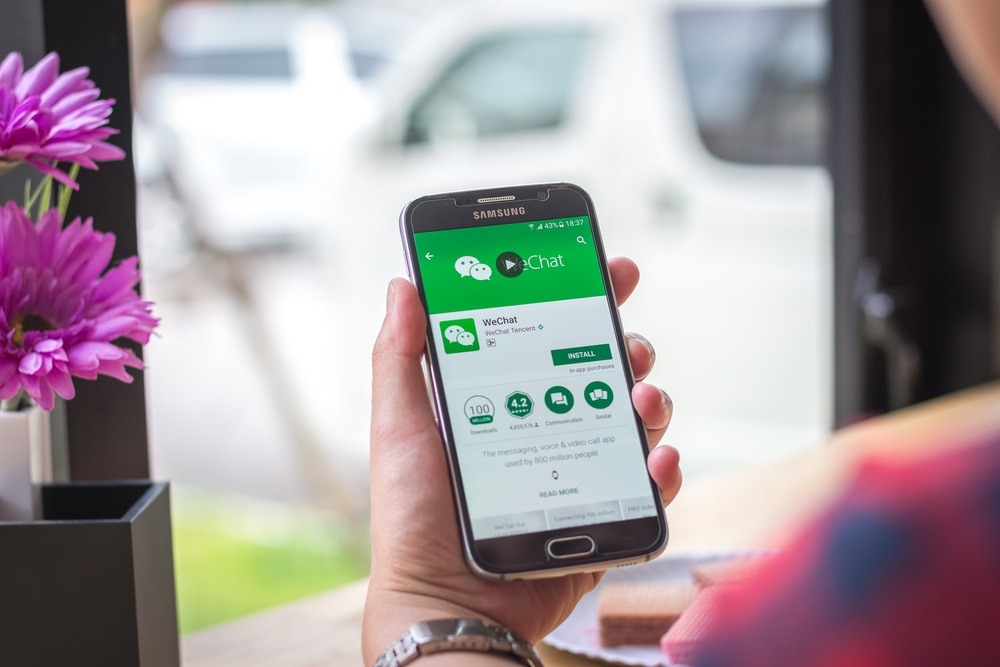
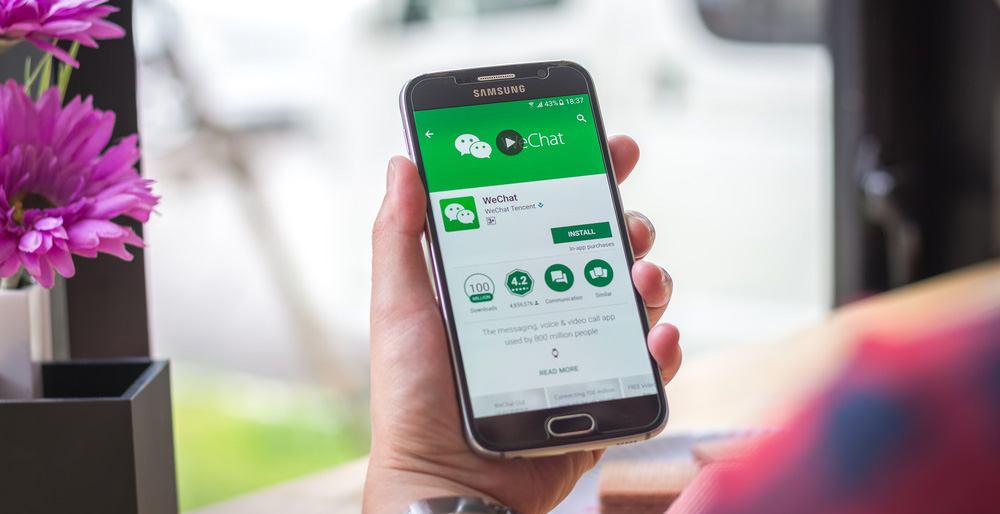
統一 slider 圖片大小

diff --git a/css/invest/invest-style.css b/css/invest/invest-style.css
@@ -101,6 +101,8 @@ button a:hover {
   text-decoration: none; }
 
 @media screen and (max-width: 700px) {
+  #fh5co-home, #fh5co-home .text-wrap {
+    height: 100vh; }
   #fh5co-intro .section1-icon .fh5co-block {
     width: 50%;
     min-height: 200px;
@@ -109,6 +111,9 @@ button a:hover {
       font-size: 18px; }
   #fh5co-invest .fh5co-block {
     width: 100%; } }
+
+#fh5co-invest {
+  margin-top: -50px; }
 
 @media screen and (max-width: 400px) {
   #fh5co-intro .section1-icon .fh5co-block {

diff --git a/sass/invest/invest-style.scss b/sass/invest/invest-style.scss
@@ -155,6 +155,9 @@ button {
 }
 
 @media screen and (max-width:700px) {
+    #fh5co-home, #fh5co-home .text-wrap{
+        height: 100vh;
+    }
     #fh5co-intro {
         .section1-icon {
             .fh5co-block {
@@ -172,6 +175,9 @@ button {
             width: 100%;
         }
     }
+}
+#fh5co-invest{
+    margin-top: -50px;
 }
 
 @media screen and (max-width:400px) {
